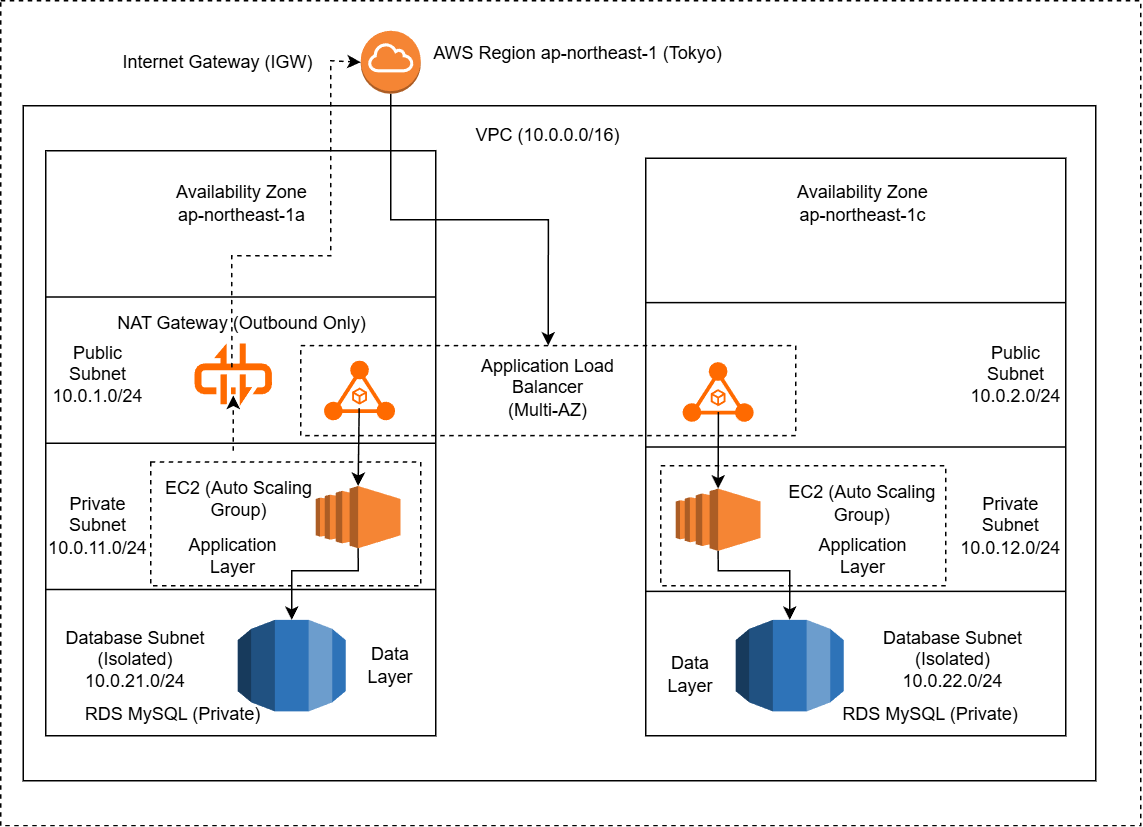
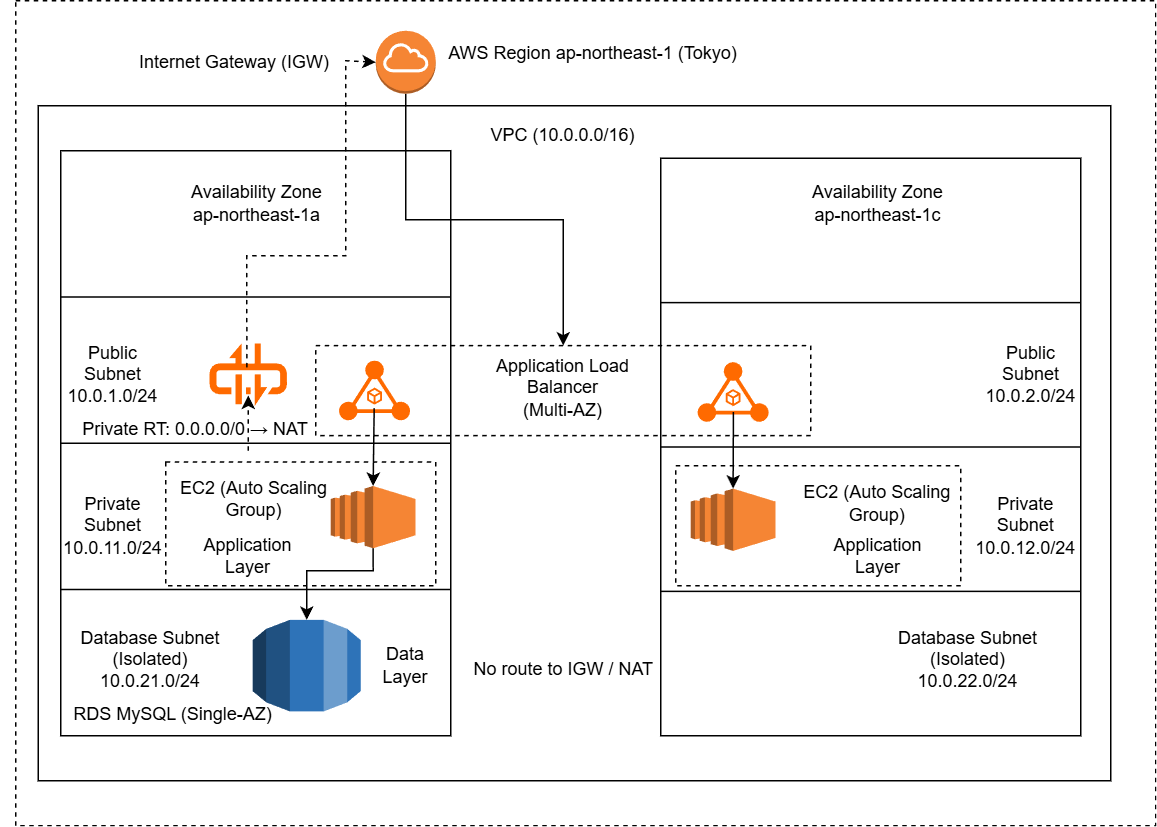
Align architecture diagram, documentation, and Terraform implementation

diff --git a/README.md b/README.md
@@ -2,10 +2,18 @@
 
 ## 1. 概要 / Project Overview
 
-本プロジェクトは、AWS のベストプラクティスに基づき、高可用性とセキュリティを担保した  
-**標準的な 3 層アーキテクチャ（Web / App / DB）** を Terraform により自動構築したものです。
+本プロジェクトは、AWS のベストプラクティスに基づき、  
+**Web / App / DB の各ロールを想定した標準的な 3 層ネットワーク構成**を  
+Terraform により自動構築したものです。
 
-通信専攻のバックグラウンドを活かし、ネットワークの分離設計およびアクセス制御（最小権限）の明確化に重点を置いて、設計・実装しました。
+各レイヤーは Public / Private / Isolated Subnet に明確に分離されており、  
+通信専攻のバックグラウンドを活かして、  
+ネットワーク境界設計および  
+Security Group によるレイヤー間アクセス制御を重視して設計・実装しています。
+
+
+なお、本構成はスケーラブルな 3 層アーキテクチャの**基盤設計**を目的としており、  
+アプリケーション層の EC2 は検証用途として最小構成で構築しています。
 
 ---
 
@@ -18,6 +26,7 @@
 - **Public Layer**
   - Application Load Balancer（ALB）を配置
   - 外部からの HTTP リクエストを受信
+  - Public Subnet には EC2 を配置せず、インターネットからの入口を ALB に集約
 
 - **Private Layer**
   - EC2（Auto Scaling Group）を配置
@@ -49,6 +58,7 @@
 - **Load Balancer**: Application Load Balancer  
 - **Database**: Amazon RDS (MySQL 8.0)  
 - **OS**: Amazon Linux 2023  
+- **Security**: Security Group によるレイヤー間アクセス制御
 
 ---
 
@@ -75,14 +85,15 @@
 - **Subnets**
   - Public (2AZ): ALB 用
   - Private (2AZ): EC2 用（NAT Gateway 経由でアウトバウンド可）
-  - DB Isolated (2AZ): RDS 用（インバウンドのみ）
+  - DB Isolated (2AZ): RDS 用（アプリケーション層からのみインバウンド許可）
 
 - **Compute**
   - Launch Template + Auto Scaling Group (t3.micro)
 
+
 - **Database**
-  - Amazon RDS MySQL
-  - Multi-AZ 対応可能な構成
+  - Amazon RDS（MySQL）
+  - Isolated Subnet に配置し、アプリケーション層からのみアクセス可能
 
 ---
 ## 7. 実装のポイント / Implementation Highlights
@@ -90,31 +101,36 @@
 本プロジェクトでは、Cloud Engineer（構築）ポジションに求められる  
 基礎的な構成要素を正しく実装することを重視しています。
 
-### Infrastructure as Code (IaC)
+### Infrastructure as Code（IaC）
 
 - Terraform によるリソース管理
-- 最新 AMI の動的取得（data source）
+- data source を利用した最新 AMI の動的取得
 - user_data による EC2 初期設定の自動化
-- 構成変更の再現性と管理性の確保
+- 構成変更に対する再現性および管理性の確保
 
 ### セキュリティ設計
 
 - ALB → EC2 → RDS の段階的な通信制御
 - DB サブネットのネットワークレベルでの隔離
 
-### 高可用性
+### 高可用性に向けた設計
 
-- Multi-AZ 構成（ap-northeast-1a / 1c）
-- ALB + Auto Scaling Group による冗長化構成
+- 複数 AZ（ap-northeast-1a / 1c）にまたがる Subnet 構成
+- ALB および Auto Scaling Group を用いた冗長化を想定した設計
 
 ### 補足
 
-- 本デモは検証目的のため Auto Scaling Group の desired_capacity を 1 としていますが、  
-  実運用ではスケールアウト可能な構成です。
+- 本デモは検証目的のため Auto Scaling Group の `desired_capacity` を 1 としていますが、  
+  実運用ではスケールアウト可能な構成としています。
+
 ---
 
 
 ## 8. セットアップ方法 / Usage
+
+※ 事前に AWS 認証情報（AWS CLI / 環境変数など）の設定が必要です。
+※ `db_password` は実行時に入力、または `terraform.tfvars` で指定してください  
+（機密情報のため Git 管理対象外としています）。
 
 ```bash
 # リポジトリのクローン
@@ -141,6 +157,9 @@ CI/CD、マルチアカウント管理、運用自動化などの高度な運用
 
 ## 10. 今後の拡張案 / Future Work（Optional）
 
-- CI/CD パイプライン（GitHub Actions + Terraform）
-- AWS Organizations を用いたマルチアカウント構成
+本構成をベースとして、以下のような発展的な取り組みを想定しています。
+
+- GitHub Actions を用いた CI/CD パイプラインの導入
+- AWS Organizations を活用したマルチアカウント構成への展開
+
 
